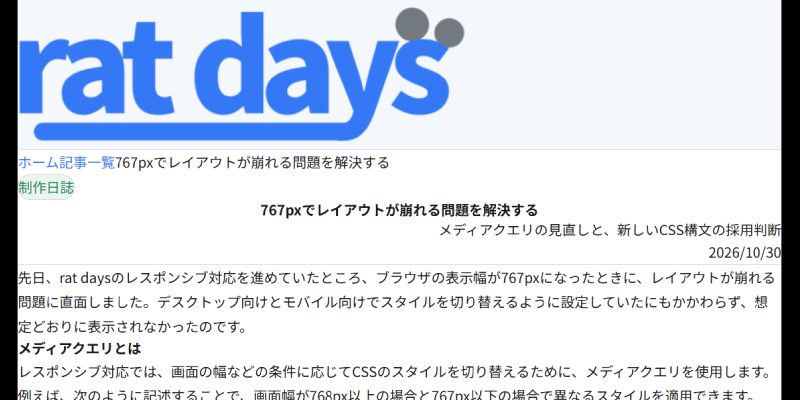
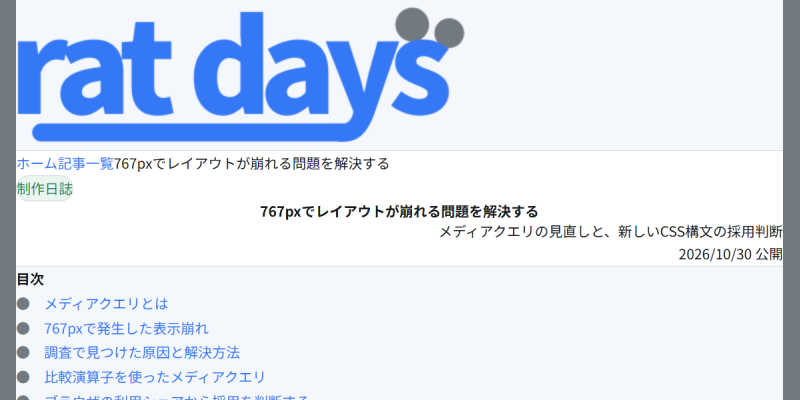
[更新]news目次を追加

diff --git a/news/261030.html b/news/261030.html
@@ -50,6 +50,20 @@
       </div>
     </div>
 
+    <nav class="article__index" aria-label="目次">
+      <div class="index">
+        <h2 class="index__h2-title">目次</h2>
+        <ol class="index__list">
+          <li class="index__item"><a href="#anchor01">メディアクエリとは</a></li>
+          <li class="index__item"><a href="#anchor02">767pxで発生した<wbr />表示崩れ</a></li>
+          <li class="index__item"><a href="#anchor03">調査で見つけた<wbr />原因と解決方法</a></li>
+          <li class="index__item"><a href="#anchor04">比較演算子を使った<wbr />メディアクエリ</a></li>
+          <li class="index__item"><a href="#anchor05">ブラウザの<wbr />利用シェアから<wbr />採用を判断する</a></li>
+          <li class="index__item"><a href="#anchor06">まとめ</a></li>
+        </ol>
+      </div>
+    </nav>
+
     <div class="article__body">
       <div class="contents">
         <div class="contents__block">
@@ -59,7 +73,7 @@
         </div>
 
         <section class="contents__block">
-          <h2 class="contents__h2-title">メディアクエリとは</h2>
+          <h2 class="contents__h2-title" id="anchor01">メディアクエリとは</h2>
           <div class="contents__text">
             <p>レスポンシブ対応では、画面の幅などの条件に応じてCSSのスタイルを切り替えるために、メディアクエリを使用します。例えば、次のように記述することで、画面幅が768px以上の場合と767px以下の場合で異なるスタイルを適用できます。</p>
           </div>
@@ -85,7 +99,7 @@
         </section>
 
         <section class="contents__block">
-          <h2 class="contents__h2-title">767pxで発生した<wbr />表示崩れ</h2>
+          <h2 class="contents__h2-title" id="anchor02">767pxで発生した<wbr />表示崩れ</h2>
           <div class="contents__text">
             <p>実際にブラウザの表示幅を調整してみると、767pxのときだけレイアウトが崩れることがわかりました。768pxではPC向けのCSSが、766pxではSP向けのCSSがそれぞれ正常に適用されていたため、767px付近で何らかの問題が発生していると考えられます。</p>
           </div>
@@ -93,24 +107,29 @@
             <img src="/rat-days/news/img/261030_01.jpg" alt="767pxで表示崩れが発生している画面" width="800" height="400" loading="lazy">
           </div>
           <div class="contents__text">
-            <p>本来であれば、画面幅に応じてPC向けとSP向けのスタイルが適切に切り替わるはずです。しかし、今回はその境界にあたる767pxで正常に表示されませんでした。CSSの記述に問題があるのか、それともブラウザやWindowsの表示設定が関係しているのか、原因がすぐにはわからなかったため、まずはオンラインで情報を調べ、自分と同じような問題が起きていないかを確認することにしました。</p>
+            <p>本来であれば、画面幅に応じてPC向けとSP向けのスタイルが適切に切り替わるはずです。しかし、今回はその境界にあたる767pxでレイアウトが正常に表示されませんでした。CSSの記述に問題があるのか、それともブラウザやWindowsの表示設定が関係しているのか、原因がすぐにはわからなかったため、まずはオンラインで情報を調べ、自分と同じような問題が起きていないかを確認することにしました。</p>
           </div>
         </section>
 
         <section class="contents__block">
-          <h2 class="contents__h2-title">オンラインで調べて<wbr />わかったこと</h2>
+          <h2 class="contents__h2-title" id="anchor03">調査で見つけた<wbr />原因と解決方法</h2>
           <div class="contents__text">
             <p>「767pxで表示が崩れる」と検索したところ、teratailに投稿された「<span class="new-window"><a href="https://teratail.com/questions/109137" target="_blank">サイトのデザインがwidth767pxで崩れるのは何故なのか？</a></span>」という質問を見つけました。自分と同じように767pxでレイアウトが崩れるという内容で、回答を読み進めるうちに、今回の問題にも共通する原因があることに気づきました。</p>
             <p>原因の一つは、Windowsのディスプレイ設定で拡大縮小率が150%になっていたことです。さらに、この設定によってブラウザが扱う表示幅に小数点以下の値が生じ、従来のメディアクエリでは、どちらの条件にも該当しない幅が発生していたことがわかりました。</p>
-            <p>参考ページの投稿者は、Windowsのディスプレイ設定を変更することで問題を解決したとしています。しかし、表示設定を変更するだけでは、別の環境で同じことが起きる可能性が残ります。そこで、表示幅に小数点以下の値が含まれていても適切なスタイルが適用されるように、メディアクエリの指定を書き換えることにしました。</p>
-            <p>その結果、メディアクエリの指定を見直すことで、767pxで発生していた表示崩れを解消できることがわかりました。しかし、今度はメディアクエリをどのように記述するのが適切なのか、という疑問が残ります。小数点以下の値を考慮して指定する方法や、notを使って条件を指定する方法など、いくつかの選択肢が考えられたため、コーディングの先輩に相談してみることにしました。</p>
+            <p>参考ページの投稿者は、Windowsのディスプレイ設定を変更することで問題を解決したとしています。しかし、表示設定を変更するだけでは、別の環境で同じことが起きる可能性が残ります。そこで、表示幅に小数点以下の値が含まれていても、いずれかの条件に該当するようにメディアクエリの指定を見直すことにしました。その結果、767pxで発生していた表示崩れは一旦解消しました。</p>
+          </div>
+          <div class="contents__img">
+            <img src="/rat-days/news/img/261030_02.jpg" alt="767pxで発生していた表示崩れが解消した画面" width="800" height="400" loading="lazy">
+          </div>
+          <div class="contents__text">
+            <p>しかし、今度はメディアクエリをどのように記述するのが適切なのか、という疑問が残ります。小数点以下の値を考慮して指定する方法や、notを使って条件を指定する方法など、いくつかの選択肢が考えられたため、コーディングの先輩に相談してみることにしました。</p>
           </div>
         </section>
 
         <section class="contents__block">
-          <h2 class="contents__h2-title">先輩に相談して<wbr />わかったこと</h2>
+          <h2 class="contents__h2-title" id="anchor04">比較演算子を使った<wbr />メディアクエリ</h2>
           <div class="contents__text">
-            <p>メディアクエリの書き方について相談したところ、先輩から教えてもらったのが、比較演算子（不等号）を使った新しい構文です。従来のmin-widthやmax-widthを使う書き方と比べて、画面幅の条件を直感的に読み取れる点が魅力的です。</p>
+            <p>メディアクエリの書き方について相談したところ、先輩から教えていただいたのが、比較演算子（不等号）を使った新しい構文です。従来のmin-widthやmax-widthを使う書き方と比べて、画面幅の条件を直感的に読み取れる点が魅力的です。</p>
             <p>例えば、比較演算子を使うと、次のように記述できます。</p>
           </div>
           <div class="contents__code">
@@ -133,31 +152,26 @@
             </div>
           </div>
           <div class="contents__text">
-            <p>この書き方なら、条件と適用範囲の関係がひと目でわかります。また、notを使った書き方と比べて、画面幅を3つ以上の範囲に分けたい場合に条件を整理しやすく、記述を簡潔にできる点も優れています。実際に、比較演算子を使ったメディアクエリに書き換えたところ、767pxで発生していた表示崩れもきれいに解消できました。</p>
-          </div>
-          <div class="contents__img">
-            <img src="/rat-days/news/img/261030_02.jpg" alt="767pxで発生していた表示崩れが解消した画面" width="800" height="400" loading="lazy">
-          </div>
-          <div class="contents__text">
+            <p>この書き方なら、条件と適用範囲の関係がひと目でわかります。また、notを使った書き方と比べて、画面幅を3つ以上の範囲に分けたい場合に条件を整理しやすく、記述を簡潔にできる点も優れています。</p>
             <p>ぜひ採用したいと思いましたが、気になったのはブラウザの対応状況です。どれほど便利な構文でも、閲覧者のブラウザで動作しなければ意味がありません。新しい技術を取り入れる際には、使いやすさと互換性のバランスを考える必要があります。</p>
             <p>そこで先輩が教えてくれたのが、「<span class="new-window"><a href="https://caniuse.com/" target="_blank">Can I use</a></span>」というWebサイトです。このサイトでは、HTMLやCSS、JavaScriptなどの機能について、ブラウザやバージョンごとの対応状況を確認できます。実際に<span class="new-window"><a href="https://caniuse.com/css-media-range-syntax" target="_blank">Media Queries: Range Syntaxの対応状況</a></span>を開き、比較演算子を使った構文がどのブラウザで利用できるのかを調べてみました。</p>
           </div>
         </section>
 
         <section class="contents__block">
-          <h2 class="contents__h2-title">ブラウザの<wbr />利用シェアから<wbr />採用を判断する</h2>
+          <h2 class="contents__h2-title" id="anchor05">ブラウザの<wbr />利用シェアから<wbr />採用を判断する</h2>
           <div class="contents__text">
-            <p>Can I useでは、各ブラウザの対応状況だけでなく、ブラウザの利用シェアをもとに、機能を利用できる環境がどれくらいあるのかも確認できます。未対応のブラウザが存在していても、その利用シェアが十分に小さければ、新しい構文を採用する判断ができると考えました。</p>
+            <p><span class="new-window"><a href="https://caniuse.com/" target="_blank">Can I use</a></span>では、各ブラウザの対応状況だけでなく、ブラウザの利用シェアをもとに、機能を利用できる環境がどれくらいあるのかも確認できます。未対応のブラウザが存在していても、その利用シェアが十分に小さければ、新しい構文を採用する判断ができると考えました。</p>
             <p>比較演算子を使った構文に対応していないのは、Internet Explorerのほか、古いバージョンのChromeやEdge、Safari、Firefoxなどです。一方、同ページの2026年9月時点の統計では、対応ブラウザの日本国内での利用シェアは約94.36%に達していました。</p>
-            <p>この結果から、未対応の環境は残っているものの、rat daysでは比較演算子を使った新しい構文を採用してもよいと判断しました。新しい技術を取り入れるときには、単に便利そうだからという理由だけで決めるのではなく、ブラウザの対応状況や利用シェアを確認したうえで判断することが大切だという学びました。</p>
+            <p>この結果から、未対応のブラウザの利用シェアは十分に小さいと考え、rat daysでは比較演算子を使った新しい構文を採用する判断をしました。しかし、対応していないブラウザを利用するユーザーが一定数存在することも無視できない事実です。今後は従来のメディアクエリを併用するなど、より多くの環境で正常に表示できる方法を検討したいと思います。</p>
           </div>
         </section>
 
         <section class="contents__block">
-          <h2 class="contents__h2-title">まとめ</h2>
+          <h2 class="contents__h2-title" id="anchor06">まとめ</h2>
           <div class="contents__text">
             <p>今回の問題は、メディアクエリの指定を見直すことで解決できましたが、調査を進めるなかで、CSSの書き方にも複数の選択肢があることを知りました。特に、比較演算子を使った構文は、条件を直感的に理解しやすく、複数の画面幅に対応する際にも記述を整理しやすい点が魅力的でした。</p>
-            <p>新しい構文を採用するかどうかは、書きやすさだけで決められるものではありません。今回のようにブラウザの対応状況や利用シェアを調べることで、利便性と互換性の両方を考慮した判断ができます。これからも、問題を解決するだけで終わらせず、より読みやすく、保守しやすいコードを書くための方法を学んでいきたいと思います。</p>
+            <p>一方で、新しい構文を採用するかどうかは、書きやすさだけで決められるものではありません。今回のようにブラウザの対応状況や利用シェアを調べることで、利便性と互換性の両方を考慮した判断ができます。これからも、問題を解決するだけで終わらせず、より読みやすく、保守しやすいコードを書くための方法を学んでいきたいと思います。</p>
           </div>
         </section>
       </div>

diff --git a/news/261025.html b/news/261025.html
@@ -50,6 +50,17 @@
       </div>
     </div>
 
+    <nav class="article__index" aria-label="目次">
+      <div class="index">
+        <h2 class="index__h2-title">目次</h2>
+        <ol class="index__list">
+          <li class="index__item"><a href="#anchor01">ファンシーラット<wbr />との暮らしを、<wbr />もっと身近に</a></li>
+          <li class="index__item"><a href="#anchor02">飼育に役立つ情報も<wbr />お届けします</a></li>
+          <li class="index__item"><a href="#anchor03">よろしく<wbr />お願いします！</a></li>
+        </ol>
+      </div>
+    </nav>
+
     <div class="article__body">
       <div class="contents">
         <div class="contents__block">
@@ -63,7 +74,7 @@
         </div>
 
         <section class="contents__block">
-          <h2 class="contents__h2-title">ファンシーラットとの暮らしを、<wbr />もっと身近に</h2>
+          <h2 class="contents__h2-title" id="anchor01">ファンシーラット<wbr />との暮らしを、<wbr />もっと身近に</h2>
           <div class="contents__text">
             <p>ファンシーラットは、好奇心旺盛で個性豊かな動物です。人に懐いてくれたり、思いがけない行動で笑わせてくれたりと、一緒に暮らしているなかで見えてくる魅力がたくさんあります。</p>
             <p>同じファンシーラットでも、性格や好きなもの、遊び方はそれぞれ異なります。人のそばに寄ってくる子もいれば、マイペースに探検するのが好きな子もいます。そんな一匹一匹の違いを知ることは、一緒に暮らす楽しみのひとつです。</p>
@@ -76,7 +87,7 @@
         </section>
 
         <section class="contents__block">
-          <h2 class="contents__h2-title">飼育に役立つ情報もお届けします</h2>
+          <h2 class="contents__h2-title" id="anchor02">飼育に役立つ情報も<wbr />お届けします</h2>
           <div class="contents__text">
             <p>ファンシーラットと楽しく暮らすためには、安心して過ごせる環境を整え、日々の健康に気を配ることも大切です。rat daysでは、飼育環境の整え方や食事、お世話の仕方など、ファンシーラットと暮らすうえで知っておきたい情報も紹介していく予定です。</p>
             <p>これからファンシーラットをお迎えする方にとっては、事前に知っておきたいことを調べる場所として、すでに一緒に暮らしている方にとっては、飼育を見直したり、新しい発見をするきっかけとして。さまざまな方に活用していただけるサイトを目指します。</p>
@@ -85,8 +96,9 @@
             <img src="/rat-days/news/img/261025_03.jpg" alt="お米を食べている3匹のファンシーラット" width="800" height="400" loading="lazy">
           </div>
         </section>
+
         <section class="contents__block">
-          <h2 class="contents__h2-title">よろしくお願いします！</h2>
+          <h2 class="contents__h2-title" id="anchor03">よろしく<wbr />お願いします！</h2>
           <div class="contents__text">
             <p>まだスタートしたばかりのrat daysですが、これから記事や写真を少しずつ増やしながら、サイトを育てていきたいと思っています。ファンシーラットが好きな方にも、これから知っていきたい方にも、気軽に立ち寄っていただける場所になればうれしいです。どうぞこれからよろしくお願いします！</p>
           </div>

diff --git a/news/css/style.css b/news/css/style.css
@@ -1,3 +1,4 @@
+@charset "UTF-8";
 html {
   font-size: 62.5%;
   -webkit-text-size-adjust: 100%;
@@ -147,7 +148,6 @@ button {
 }
 .new-window {
   color: var(--c-accent);
-  border-bottom: 1px dashed var(--c-accent);
 }
 
 @media (width >= 768px) {
@@ -320,18 +320,24 @@ button {
 }
 
 .article {
+  display: flex;
+  flex-direction: column;
   width: 100%;
   margin-inline: auto;
 }
 @media (width >= 768px) {
   .article {
+    gap: 30px;
     max-width: 900px;
     padding-inline: 50px;
+    padding-bottom: 40px;
   }
 }
 @media (width < 768px) {
   .article {
+    gap: min(var(--vw) * 40, 30px);
     padding-inline: calc(var(--vw) * 40);
+    padding-bottom: min(var(--vw) * 80, 40px);
   }
 }
 .article__head {
@@ -447,9 +453,61 @@ button {
   display: none;
 }
 
-.article__body {
-  border-bottom: 1px solid var(--c-border);
+@media (width >= 768px) {
+  .article__index {
+    padding-inline: 20px;
+  }
 }
+.index {
+  background-color: var(--c-sub-background);
+}
+@media (width >= 768px) {
+  .index {
+    padding: 10px 20px;
+  }
+}
+@media (width < 768px) {
+  .index {
+    padding: min(var(--vw) * 20, 10px) min(var(--vw) * 40, 20px);
+  }
+}
+.index__h2-title {
+  font-weight: 700;
+}
+@media (width >= 768px) {
+  .index__h2-title {
+    font-size: 16px;
+  }
+}
+@media (width < 768px) {
+  .index__h2-title {
+    font-size: clamp(14px, var(--vw) * 32, 16px);
+  }
+}
+.index__item {
+  position: relative;
+  padding-left: 2em;
+  color: var(--c-accent);
+  line-height: 1.7;
+  word-break: keep-all;
+}
+@media (width >= 768px) {
+  .index__item {
+    font-size: 14px;
+  }
+}
+@media (width < 768px) {
+  .index__item {
+    font-size: clamp(12px, var(--vw) * 28, 14px);
+  }
+}
+.index__item::before {
+  content: "●";
+  position: absolute;
+  left: 0;
+  color: var(--c-sub);
+}
+
 .contents {
   display: flex;
   flex-direction: column;
@@ -457,13 +515,11 @@ button {
 @media (width >= 768px) {
   .contents {
     gap: 30px;
-    padding-block: 30px 60px;
   }
 }
 @media (width < 768px) {
   .contents {
     gap: min(var(--vw) * 40, 30px);
-    padding-block: min(var(--vw) * 40, 30px) min(var(--vw) * 80, 60px);
   }
 }
 .contents__block {
@@ -481,9 +537,9 @@ button {
   }
 }
 .contents__h2-title {
-  word-break: keep-all;
   font-weight: 700;
   line-height: 1.5;
+  word-break: keep-all;
 }
 @media (width >= 768px) {
   .contents__h2-title {
@@ -583,17 +639,18 @@ button {
 .article__post-nav {
   display: flex;
   flex-direction: column;
+  border-top: 1px solid var(--c-border);
 }
 @media (width >= 768px) {
   .article__post-nav {
-    gap: 30px;
-    padding-block: 30px 60px;
+    gap: 20px;
+    padding-top: 20px;
   }
 }
 @media (width < 768px) {
   .article__post-nav {
     gap: calc(var(--vw) * 20);
-    padding-block: calc(var(--vw) * 20) min(var(--vw) * 80, 60px);
+    padding-top: calc(var(--vw) * 20);
   }
 }
 .post-nav__list {

diff --git a/news/yymmdd.html b/news/yymmdd.html
@@ -52,10 +52,21 @@
       </div>
     </div>
 
+    <nav class="article__index" aria-label="目次">
+      <div class="index">
+        <h2 class="index__h2-title">目次</h2>
+        <ol class="index__list">
+          <li class="index__item"><a href="#anchor01">テキストテキストテキスト</a></li>
+          <li class="index__item"><a href="#anchor02">テキストテキストテキスト</a></li>
+          <li class="index__item"><a href="#anchor03">テキストテキストテキスト</a></li>
+        </ol>
+      </div>
+    </nav>
+
     <div class="article__body">
       <div class="contents">
         <section class="contents__block">
-          <h2 class="contents__h2-title">テキストテキストテキスト</h2>
+          <h2 class="contents__h2-title" id="anchor01">テキストテキストテキスト</h2>
           <div class="contents__text">
             <p>テキストテキストテキスト</p>
             <p>テキストテキストテキスト</p>
@@ -67,7 +78,7 @@
         </section>
 
         <section class="contents__block">
-          <h2 class="contents__h2-title">テキストテキストテキスト</h2>
+          <h2 class="contents__h2-title" id="anchor02">テキストテキストテキスト</h2>
           <div class="contents__text">
             <p>テキストテキストテキスト</p>
             <p>テキストテキストテキスト</p>
@@ -79,7 +90,7 @@
         </section>
 
         <section class="contents__block">
-          <h2 class="contents__h2-title">テキストテキストテキスト</h2>
+          <h2 class="contents__h2-title" id="anchor03">テキストテキストテキスト</h2>
           <div class="contents__text">
             <p>テキストテキストテキスト</p>
             <p>テキストテキストテキスト</p>
